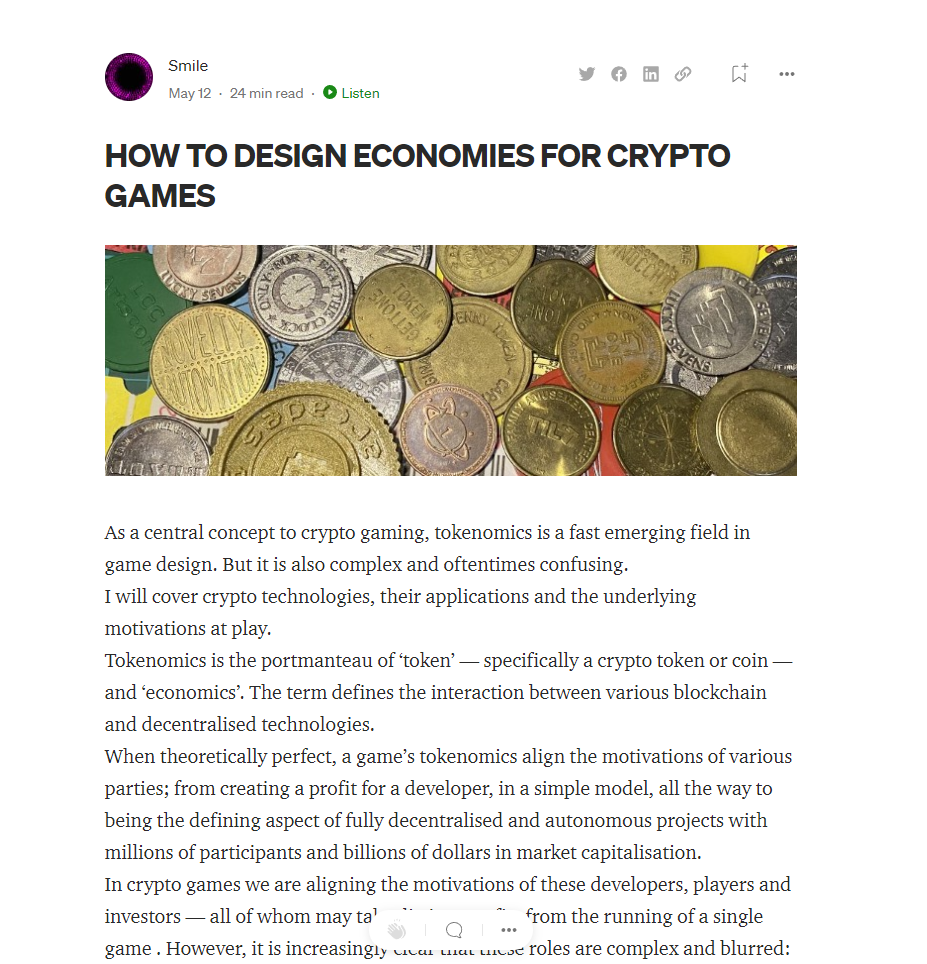
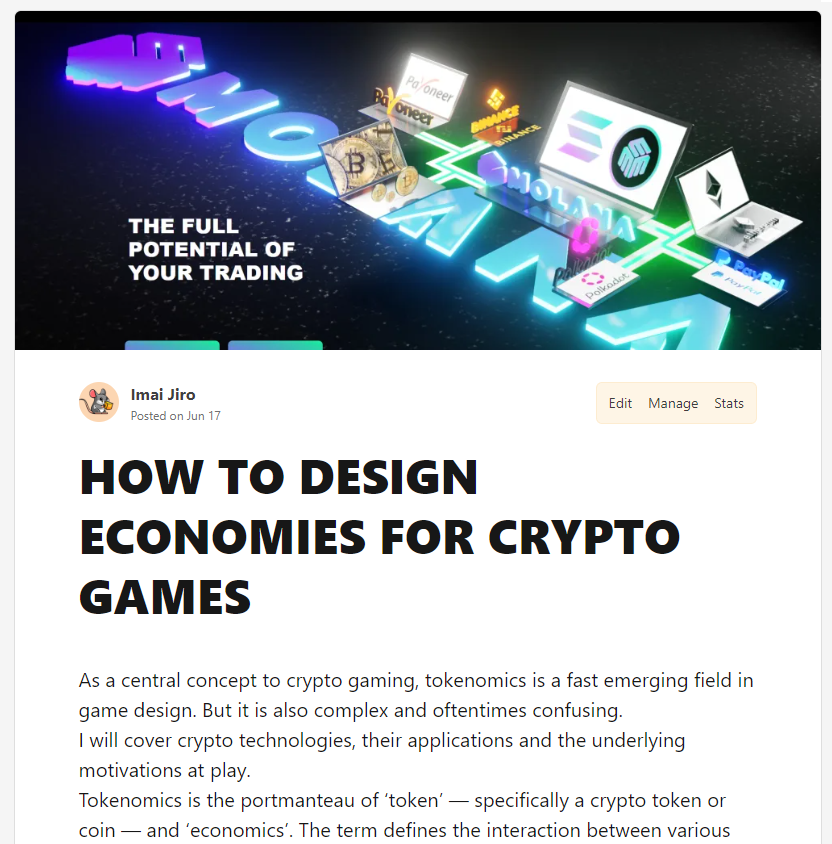
blog updated

diff --git a/index.html b/index.html
@@ -693,7 +693,7 @@
           <div class="col-md-4">
             <div class="card card-blog">
               <div class="card-img">
-                <a href="https://medium.com/@smile0307/how-to-design-economies-for-crypto-games-32e87cfd16b4"><img src="assets/img/post-2.PNG" alt="" class="img-fluid"></a>
+                <a href="https://dev.to/imaijiro/how-to-design-economies-for-crypto-games-108f"><img src="assets/img/post-2.PNG" alt="" class="img-fluid"></a>
               </div>
               <div class="card-body">
                 <div class="card-category-box">
